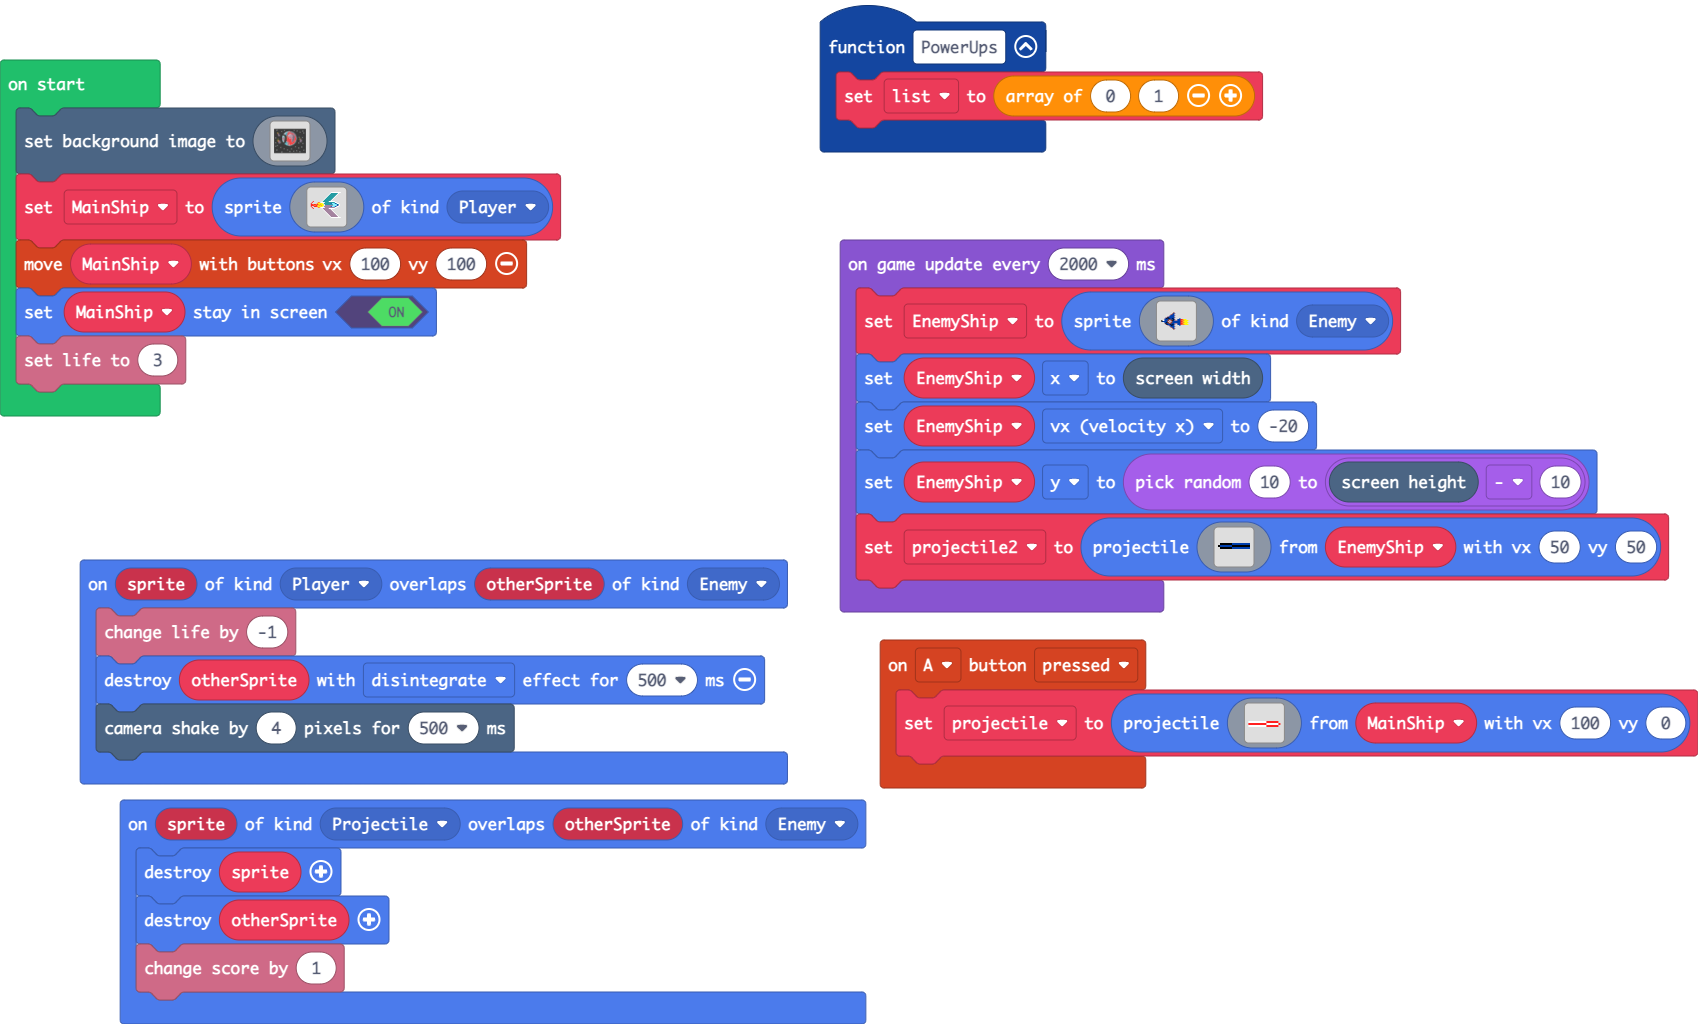
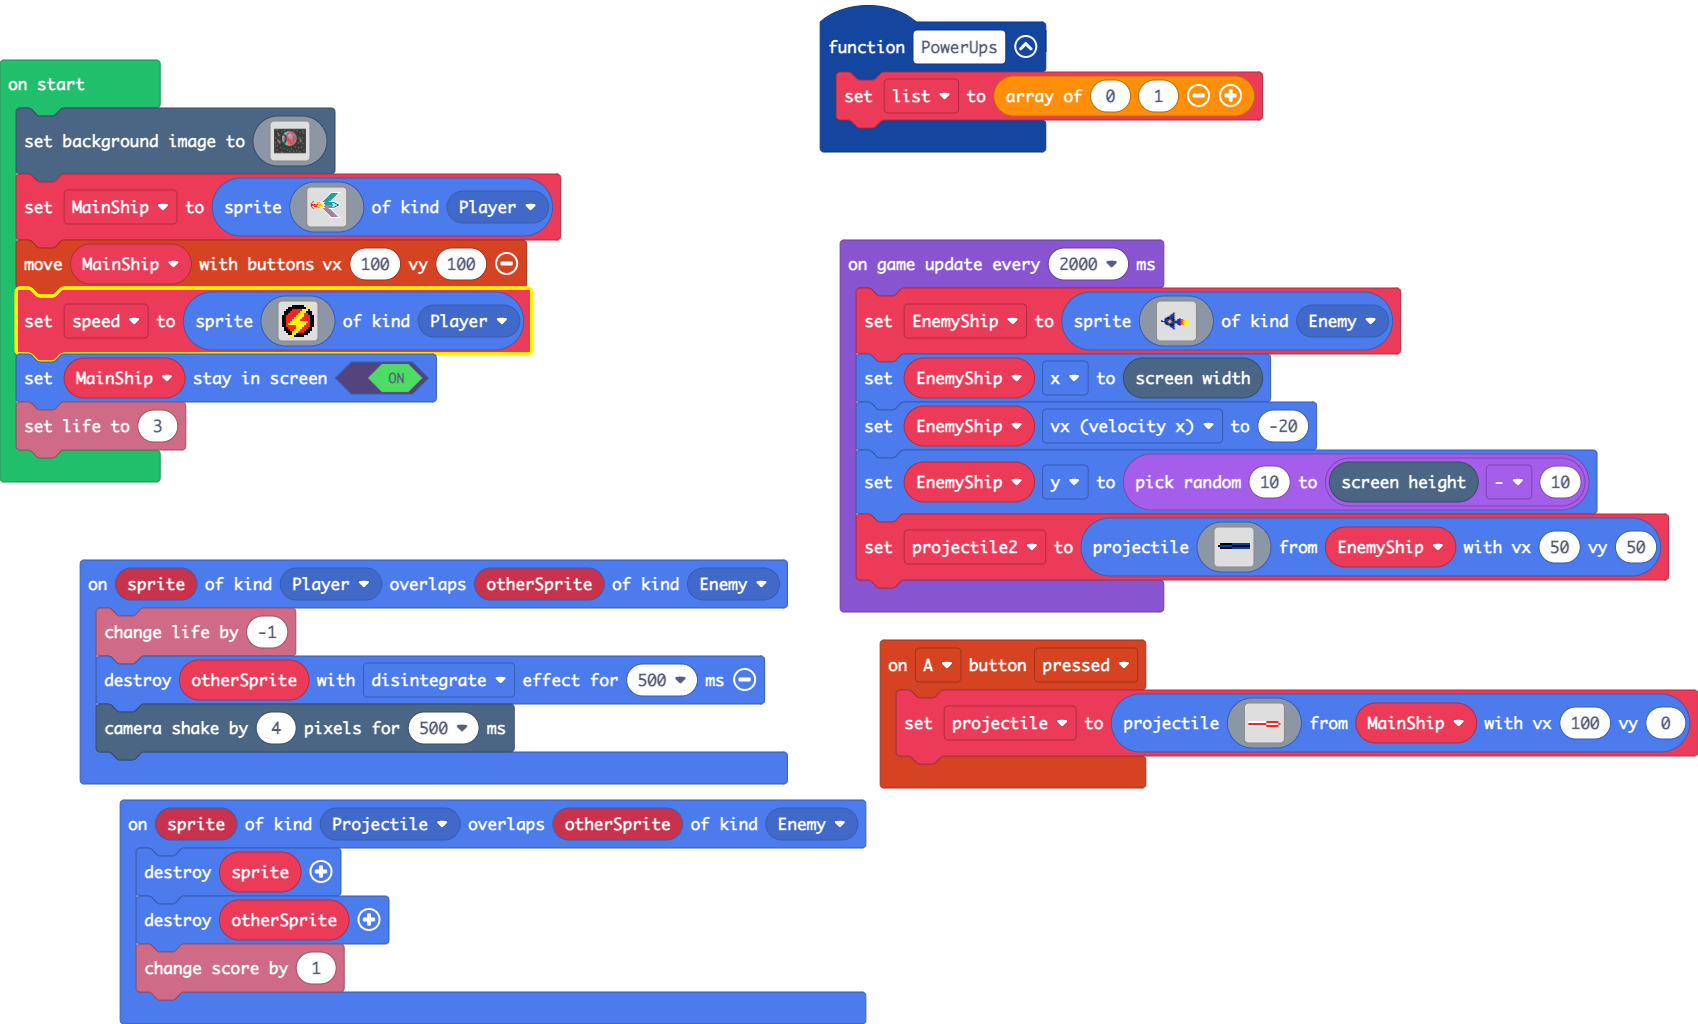
Update main.blocks, main.ts, images.g.jres, images.g.ts

Changed region(s): [[0.0, 0.2812, 0.3121, 0.4688]]

diff --git a/images.g.ts b/images.g.ts
@@ -38,6 +38,25 @@ namespace myImages {
 ................................
 ................................
 `;
+            case "image2":
+            case "Speed":return img`
+. . . . . f f f f f f . . 5 . . 
+. . . f f f f f f f f f 5 5 . . 
+. . f f f 2 2 2 2 2 5 5 5 f . . 
+. f f f 2 2 2 2 2 5 5 5 f f f . 
+. f f 2 2 2 2 2 5 5 5 2 2 f f . 
+f f 2 2 2 2 2 5 5 5 5 2 2 2 f f 
+f f 2 2 2 2 5 5 5 5 2 2 2 2 f f 
+f f 2 2 2 5 5 5 5 2 2 2 2 2 f f 
+f f 2 2 5 5 5 5 5 5 5 5 5 2 f f 
+f f 2 5 5 5 5 5 5 5 5 5 2 2 f f 
+f f 2 2 2 2 2 5 5 5 5 2 2 2 f f 
+. f f 2 2 2 2 5 5 5 2 2 2 f f . 
+. f f f 2 2 5 5 5 2 2 2 f f f . 
+. . f f f 5 5 5 2 2 2 f f f . . 
+. . . f f 5 5 f f f f f f . . . 
+. . . . 5 5 f f f f f . . . . . 
+`;
         }
         return null;
     })

diff --git a/main.ts b/main.ts
@@ -160,6 +160,7 @@ scene.setBackgroundImage(img`
     `)
 MainShip = sprites.create(assets.image`Civilianship`, SpriteKind.Player)
 controller.moveSprite(MainShip, 100, 100)
+let speed = sprites.create(assets.image`Speed`, SpriteKind.Player)
 MainShip.setStayInScreen(true)
 info.setLife(3)
 game.onUpdateInterval(2000, function () {
